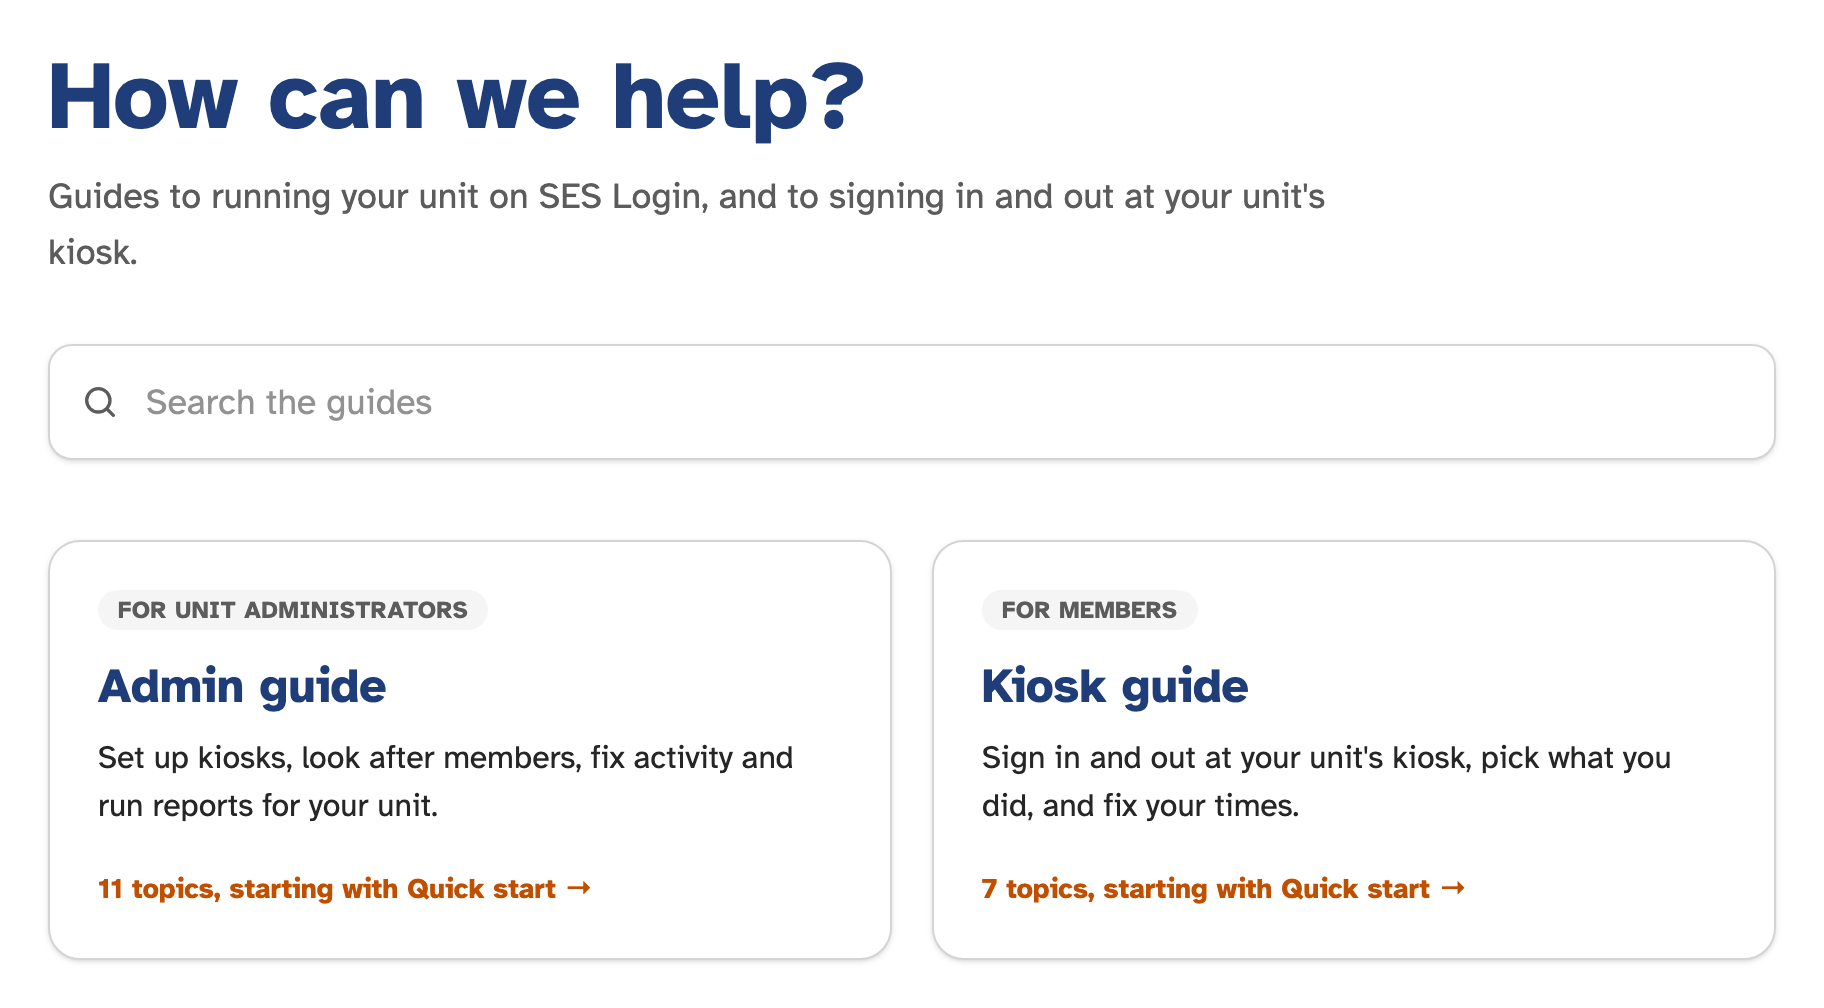
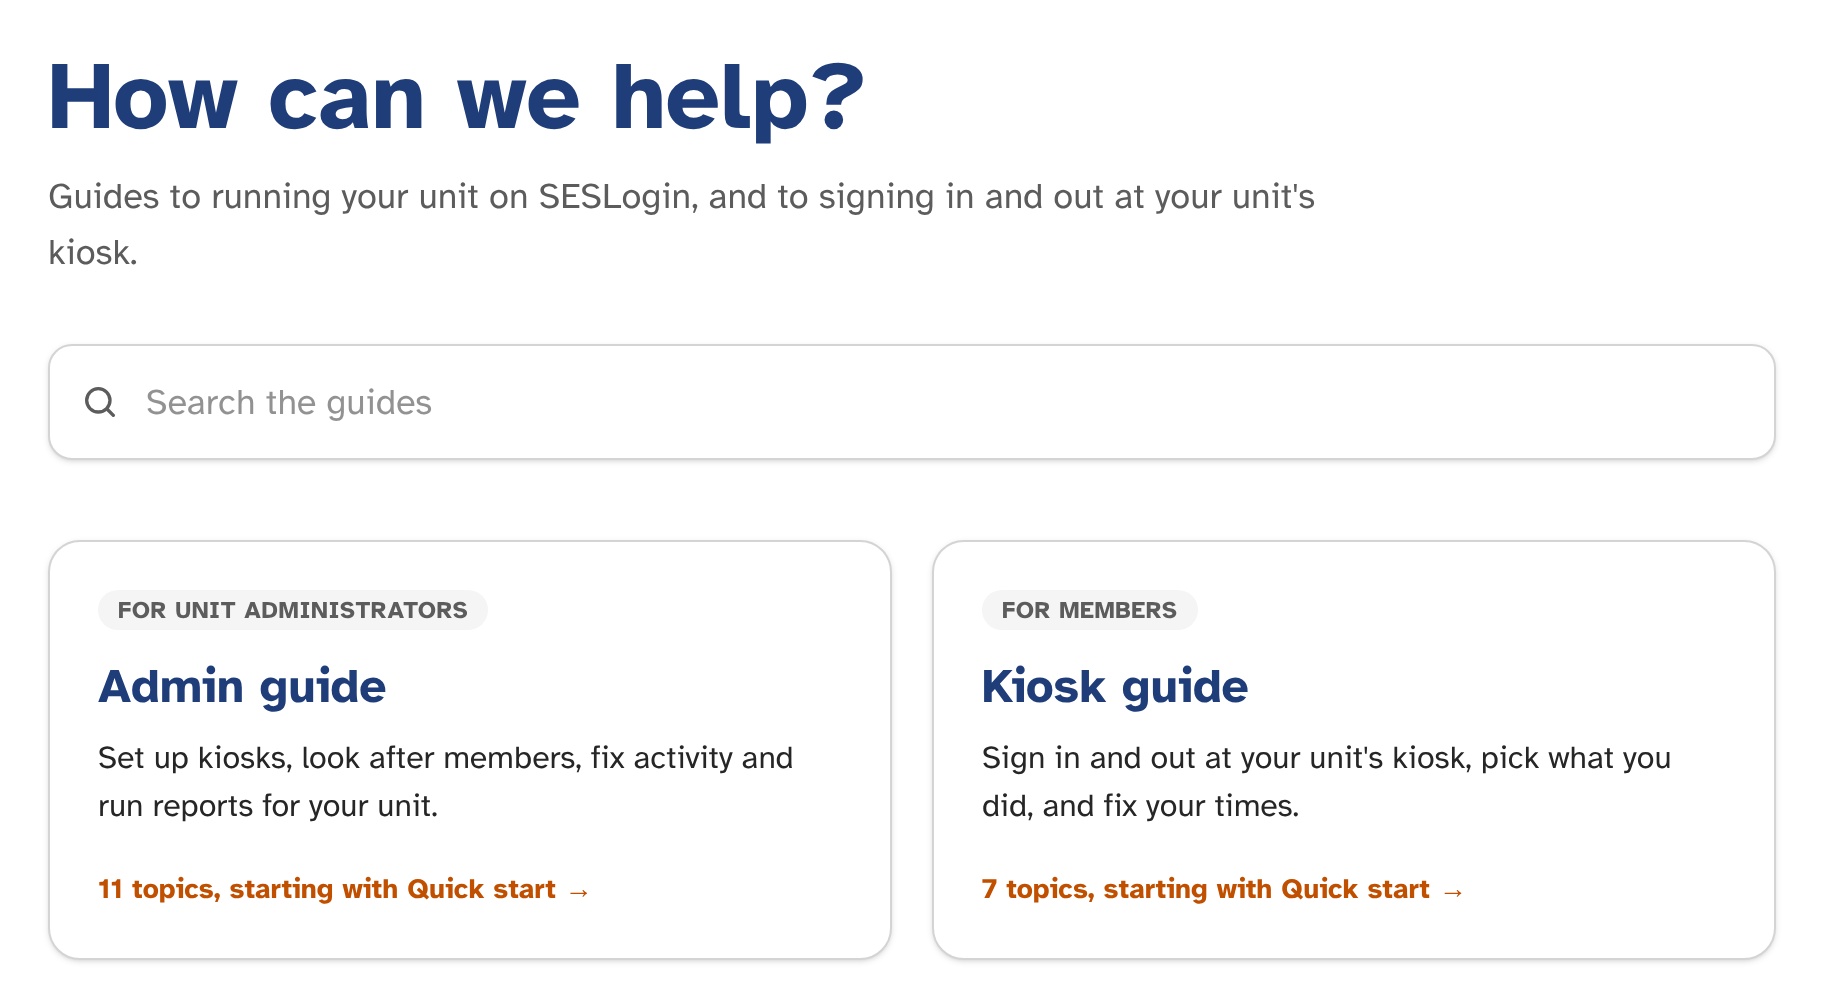
Call the product SESLogin everywhere users see it
Replace both earlier names, "SES Activity" and "SES Login", with
"SESLogin" in every human-facing place: the admin top bar and footer,
the home page, the guide site and both user guides, the browser tab
title, help dialogs, the OAuth consent page, the kiosk Home Screen
help, outgoing emails (login code, daily summary, reminder sign-off,
stale-sync alert, help tickets), Beacon NITC event descriptions, MCP
tool descriptions, the announcement email template and the READMEs.

`seslogin` stays as the codename in code and identifiers: table
prefixes, the OAuth scope, the MCP server name, the CloudWatch metric
namespace and the "SESLOGIN:" NITC event-name prefix used to find
our own events in Beacon. Announcement emails that were already sent
are left as they were.

The screenshot script no longer rewrites "SES Activity" to "SES Login",
since the app now shows the right name itself. The two guide
screenshots that show the name are re-captured.

Claude-Session: https://claude.ai/code/session_01SVJzfkpZKAb3dCmnKiiXV3

diff --git a/email/template/index.html b/email/template/index.html
@@ -67,11 +67,11 @@
               <table role="presentation" cellpadding="0" cellspacing="0" border="0">
                 <tr>
                   <td valign="middle" style="padding-right: 16px;">
-                    <img src="images/logo.png" width="64" height="64" alt="SES Activity logo" style="display: block; width: 64px; height: 64px; border: 0; outline: none; text-decoration: none;">
+                    <img src="images/logo.png" width="64" height="64" alt="SESLogin logo" style="display: block; width: 64px; height: 64px; border: 0; outline: none; text-decoration: none;">
                   </td>
                   <td valign="middle">
                     <h1 style="margin: 0; font-family: Arial, Helvetica, sans-serif; font-size: 32px; line-height: 38px; font-weight: bold; color: #222222;">
-                      SES Activity
+                      SESLogin
                     </h1>
                     <p style="margin: 2px 0 0 0; font-family: Arial, Helvetica, sans-serif; font-size: 16px; line-height: 22px; color: #c4521a;">
                       {{TITLE SUFFIX, e.g. "New features" or "What's new in October"}}
@@ -116,11 +116,11 @@
                     <!--[if mso]>
                     <v:roundrect href="https://seslogin.com/admin" style="height: 44px; v-text-anchor: middle; width: 220px;" arcsize="10%" stroke="f" fillcolor="#ef7229">
                       <w:anchorlock/>
-                      <center style="color: #ffffff; font-family: Arial, Helvetica, sans-serif; font-size: 16px; font-weight: bold;">Open SES Activity</center>
+                      <center style="color: #ffffff; font-family: Arial, Helvetica, sans-serif; font-size: 16px; font-weight: bold;">Open SESLogin</center>
                     </v:roundrect>
                     <![endif]-->
                     <!--[if !mso]><!-->
-                    <a href="https://seslogin.com/admin" style="display: inline-block; padding: 12px 28px; font-family: Arial, Helvetica, sans-serif; font-size: 16px; line-height: 20px; font-weight: bold; color: #ffffff; text-decoration: none; border-radius: 4px; background-color: #ef7229;">Open SES Activity</a>
+                    <a href="https://seslogin.com/admin" style="display: inline-block; padding: 12px 28px; font-family: Arial, Helvetica, sans-serif; font-size: 16px; line-height: 20px; font-weight: bold; color: #ffffff; text-decoration: none; border-radius: 4px; background-color: #ef7229;">Open SESLogin</a>
                     <!--<![endif]-->
                   </td>
                 </tr>
@@ -134,7 +134,7 @@
             <td class="px" style="padding: 24px; background-color: #ffffff; border-top: 1px solid #e5e5e5; font-family: Arial, Helvetica, sans-serif; font-size: 14px; line-height: 21px; color: #444444;">
               <p style="margin: 0 0 12px 0;">
                 <strong>Questions, problems or feedback?</strong> Just reply to this email.
-                Your reply opens a support ticket with the SES Activity team, so you can
+                Your reply opens a support ticket with the SESLogin team, so you can
                 report an issue, tell us what you think of a change, or ask for help, and
                 we'll get back to you.
               </p>
@@ -147,11 +147,11 @@
             <td class="px" style="padding: 16px 24px; font-family: Arial, Helvetica, sans-serif; font-size: 12px; line-height: 18px; color: #777777;">
               <p style="margin: 0 0 8px 0;">
                 You're receiving this email because you are an administrator in
-                SES Activity. Feature update emails are sent automatically to all
-                SES Activity administrators.
+                SESLogin. Feature update emails are sent automatically to all
+                SESLogin administrators.
               </p>
               <p style="margin: 0;">
-                NSW SES Volunteers &mdash; SES Activity &mdash;
+                NSW SES Volunteers &mdash; SESLogin &mdash;
                 <a href="https://seslogin.com" style="color: #777777; text-decoration: underline;">seslogin.com</a>
               </p>
             </td>

diff --git a/web/src/admin/components/Footer.test.tsx b/web/src/admin/components/Footer.test.tsx
@@ -53,12 +53,12 @@ describe("Footer support link", () => {
     await openHelp(screen, environment, true);
 
     expect(
-      await screen.findByText(/Send the seslogin team a message/),
+      await screen.findByText(/Send the SESLogin team a message/),
     ).toBeInTheDocument();
-    expect(screen.getByText("ask for help using seslogin")).toBeInTheDocument();
+    expect(screen.getByText("ask for help using SESLogin")).toBeInTheDocument();
     expect(screen.getByText("admin@example.com")).toBeInTheDocument();
     expect(
-      screen.queryByText(/Email the seslogin team/),
+      screen.queryByText(/Email the SESLogin team/),
     ).not.toBeInTheDocument();
 
     const user = UserEvent.setup();
@@ -94,9 +94,9 @@ describe("Footer support link", () => {
     await openHelp(screen, environment, false);
 
     expect(
-      await screen.findByText(/Email the seslogin team at/),
+      await screen.findByText(/Email the SESLogin team at/),
     ).toBeInTheDocument();
-    expect(screen.getByText("ask for help using seslogin")).toBeInTheDocument();
+    expect(screen.getByText("ask for help using SESLogin")).toBeInTheDocument();
     expect(
       screen.getByRole("link", { name: "Write an email" }),
     ).toHaveAttribute("href", "mailto:support@seslogin.com");
@@ -107,6 +107,6 @@ describe("Footer support link", () => {
     await UserEvent.setup().click(
       screen.getByRole("button", { name: "Close" }),
     );
-    expect(screen.queryByText(/Email the seslogin team at/)).toBeNull();
+    expect(screen.queryByText(/Email the SESLogin team at/)).toBeNull();
   });
 });

diff --git a/web/src/admin/pages/OAuthAuthorize.tsx b/web/src/admin/pages/OAuthAuthorize.tsx
@@ -100,7 +100,7 @@ export default function OAuthAuthorize() {
           <PanelTitle>Invalid request</PanelTitle>
           <PanelMessage>
             This link is missing required parameters, or isn't an authorization
-            request seslogin recognizes. Go back to the app or tool you started
+            request SESLogin recognizes. Go back to the app or tool you started
             this from and try again.
           </PanelMessage>
         </PanelBox>
@@ -202,7 +202,7 @@ function ConsentScreen({
       <PanelBox>
         <PanelTitle>Connect {clientName}?</PanelTitle>
         <PanelIntro>
-          <strong>{clientName}</strong> wants to connect to your seslogin
+          <strong>{clientName}</strong> wants to connect to your SESLogin
           account.
         </PanelIntro>
         <PanelMessage variant="warning">
@@ -213,7 +213,7 @@ function ConsentScreen({
         </PanelMessage>
         <p className="my-4">
           This will let it act as you (<strong>{user.email}</strong>) in
-          seslogin, with all of your permissions.
+          SESLogin, with all of your permissions.
         </p>
         <div className="flex flex-row flex-wrap items-center gap-3">
           <Button

diff --git a/web/src/guide/GuideLayout.tsx b/web/src/guide/GuideLayout.tsx
@@ -28,7 +28,7 @@ export default function GuideLayout({ children }: { children: ReactNode }) {
           >
             <img src={logo} alt="" className="size-8" />
             <span className="font-title text-lg font-bold text-navy">
-              SES Login{" "}
+              SESLogin{" "}
               <span className="font-normal text-ink-muted max-sm:hidden">
                 Guide
               </span>
@@ -82,7 +82,7 @@ export default function GuideLayout({ children }: { children: ReactNode }) {
 
       <footer className="border-t border-line print:hidden">
         <div className="mx-auto flex max-w-6xl flex-wrap items-center justify-between gap-3 px-4 py-6 text-sm text-ink-muted">
-          <span>SES Login · NSW SES Volunteers</span>
+          <span>SESLogin · NSW SES Volunteers</span>
           <span className="flex gap-5">
             <Link to="/" className="text-ink-muted underline">
               Home

diff --git a/web/src/components/HelpLink.test.tsx b/web/src/components/HelpLink.test.tsx
@@ -16,14 +16,14 @@ describe("HelpLink with EmailHelp (home page footer)", () => {
     expect(link).toHaveAttribute("href", "mailto:support@seslogin.com");
     await user.click(link);
 
-    expect(screen.getByText(/Email the seslogin team at/)).toBeInTheDocument();
-    expect(screen.getByText("ask for help using seslogin")).toBeInTheDocument();
+    expect(screen.getByText(/Email the SESLogin team at/)).toBeInTheDocument();
+    expect(screen.getByText("ask for help using SESLogin")).toBeInTheDocument();
     expect(
       screen.getByRole("link", { name: "Write an email" }),
     ).toHaveAttribute("href", "mailto:support@seslogin.com");
     expect(screen.queryByRole("textbox")).toBeNull();
 
     await user.click(screen.getByRole("button", { name: "Close" }));
-    expect(screen.queryByText(/Email the seslogin team at/)).toBeNull();
+    expect(screen.queryByText(/Email the SESLogin team at/)).toBeNull();
   });
 });

diff --git a/web/src/components/EmailHelp.tsx b/web/src/components/EmailHelp.tsx
@@ -7,7 +7,7 @@ import { SUPPORT_EMAIL, SUPPORT_MAILTO } from "../lib/support";
 export function HelpUses() {
   return (
     <ul className="my-4 list-disc pl-6">
-      <li>ask for help using seslogin</li>
+      <li>ask for help using SESLogin</li>
       <li>report a bug or something that doesn&apos;t look right</li>
       <li>get a new user set up</li>
       <li>request a new feature or suggest an improvement</li>
@@ -24,7 +24,7 @@ export function EmailHelp({ onClose }: { onClose?: () => void }) {
   return (
     <div className="text-left">
       <p className="my-4">
-        Email the seslogin team at <a href={SUPPORT_MAILTO}>{SUPPORT_EMAIL}</a>{" "}
+        Email the SESLogin team at <a href={SUPPORT_MAILTO}>{SUPPORT_EMAIL}</a>{" "}
         about anything, for example to:
       </p>
       <HelpUses />

diff --git a/web/index.html b/web/index.html
@@ -12,10 +12,10 @@
          see-through: iOS 26+ otherwise blurs the page beneath it. The kiosk's sticky
          title bar then gives the status bar its colour (see ScanTitleBar). -->
     <meta name="apple-mobile-web-app-status-bar-style" content="default" />
-    <meta name="apple-mobile-web-app-title" content="seslogin" />
+    <meta name="apple-mobile-web-app-title" content="SESLogin" />
     <link rel="apple-touch-icon" href="/image/logo.png" />
     <meta name="seslogin-client-version" content="%VITE_CLIENT_VERSION%" />
-    <title>seslogin</title>
+    <title>SESLogin</title>
   </head>
   <body>
     <div id="root"></div>

diff --git a/web/src/home/Layout.tsx b/web/src/home/Layout.tsx
@@ -19,9 +19,8 @@ export default function Layout() {
       <TopBar username="" />
       <Outlet />
       <footer className="bg-surface-sunken p-2.5 text-center text-xs text-ink-muted">
-        NSW SES Volunteers &mdash; SES Activity v2 &mdash;{" "}
-        <ClientVersionLabel /> &mdash;{" "}
-        <HelpLink>{(close) => <EmailHelp onClose={close} />}</HelpLink>
+        NSW SES Volunteers &mdash; SESLogin v2 &mdash; <ClientVersionLabel />{" "}
+        &mdash; <HelpLink>{(close) => <EmailHelp onClose={close} />}</HelpLink>
       </footer>
     </ErrorBoundary>
   );

diff --git a/web/src/guide/useDocumentTitle.ts b/web/src/guide/useDocumentTitle.ts
@@ -1,10 +1,10 @@
 import { useEffect } from "react";
 
-/** Sets the tab title to "<title> · SES Login Guide" while the page is shown. */
+/** Sets the tab title to "<title> · SESLogin Guide" while the page is shown. */
 export function useDocumentTitle(title: string | null) {
   useEffect(() => {
     const previous = document.title;
-    document.title = title ? `${title} · SES Login Guide` : "SES Login Guide";
+    document.title = title ? `${title} · SESLogin Guide` : "SESLogin Guide";
     return () => {
       document.title = previous;
     };

diff --git a/web/src/home/Home.tsx b/web/src/home/Home.tsx
@@ -53,7 +53,7 @@ export default function Home() {
                 Guide
               </span>
               <p className="my-4 flex-1 text-navy group-hover:text-navy-light">
-                Learn how to use SES Login, whether you run your unit or sign in
+                Learn how to use SESLogin, whether you run your unit or sign in
                 at a kiosk
               </p>
               <GuideIcon className="size-16.25 shrink-0 text-navy group-hover:text-navy-light group-hover:[--icon-accent:var(--color-accent-light)] max-md:hidden" />

diff --git a/web/src/admin/pages/SettingsConnectedApps.tsx b/web/src/admin/pages/SettingsConnectedApps.tsx
@@ -68,7 +68,7 @@ export default function SettingsConnectedApps() {
     <div>
       <SectionHeading>Connected apps</SectionHeading>
       <p className="my-4">
-        AI tools you connect through seslogin's MCP interface — for example
+        AI tools you connect through SESLogin's MCP interface — for example
         Claude Code or a claude.ai custom connector — appear here once you
         approve them. Each one can act as you, with your permissions. Disconnect
         anything you no longer use or don't recognize.

diff --git a/web/src/admin/components/Footer.tsx b/web/src/admin/components/Footer.tsx
@@ -9,7 +9,7 @@ import HelpForm from "./HelpForm";
 export default function Footer() {
   return (
     <footer className="bg-surface-sunken p-2.5 text-center text-xs text-ink-muted">
-      NSW SES Volunteers &mdash; SES Activity v2 &mdash; <ClientVersionLabel />
+      NSW SES Volunteers &mdash; SESLogin v2 &mdash; <ClientVersionLabel />
       &mdash; <GraphiQLLink /> &mdash;{" "}
       {/* A signed-in admin gets the ticket form (when configured): it files
           from their verified address. */}
